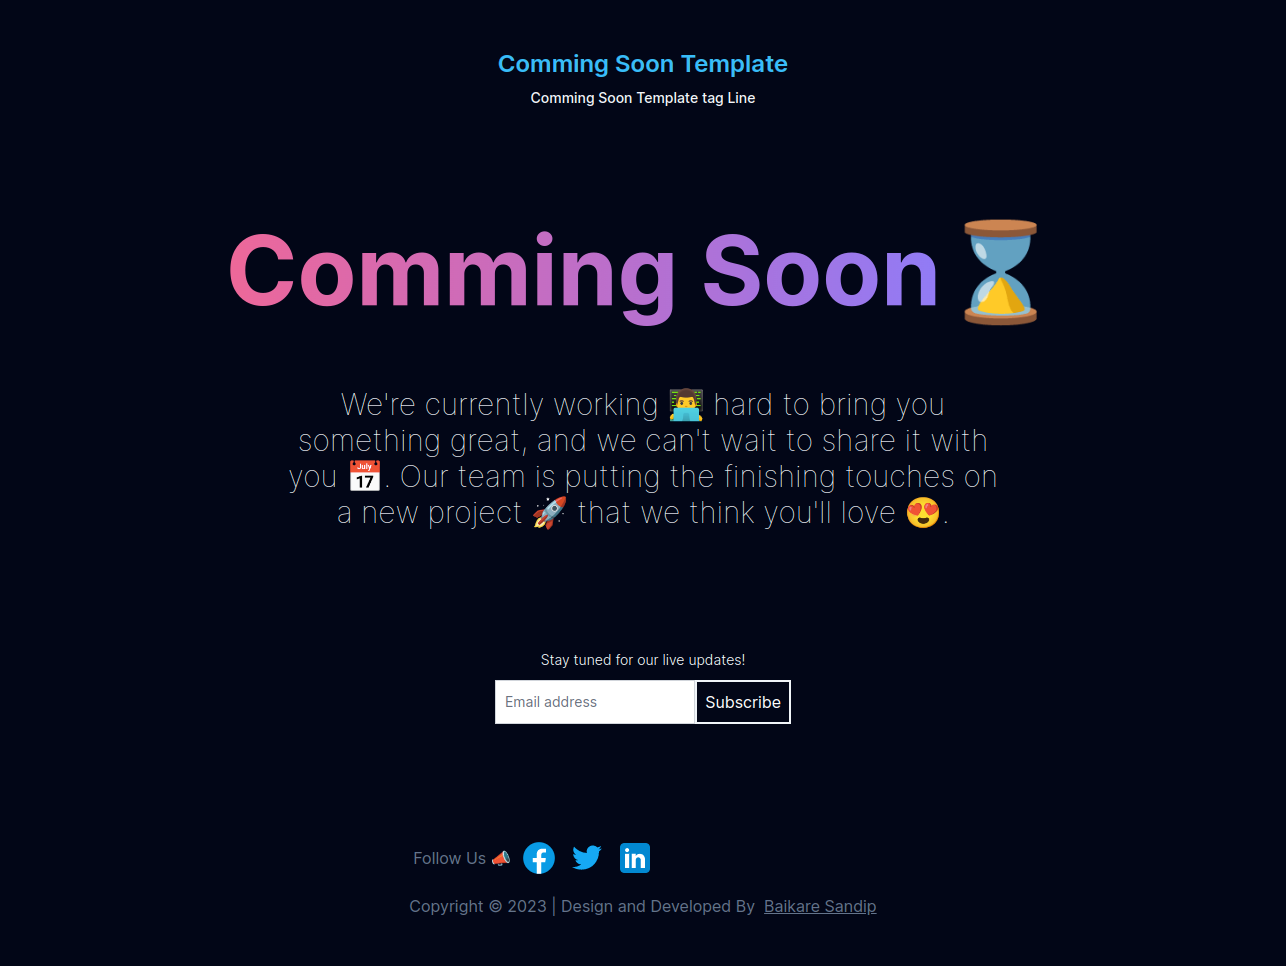
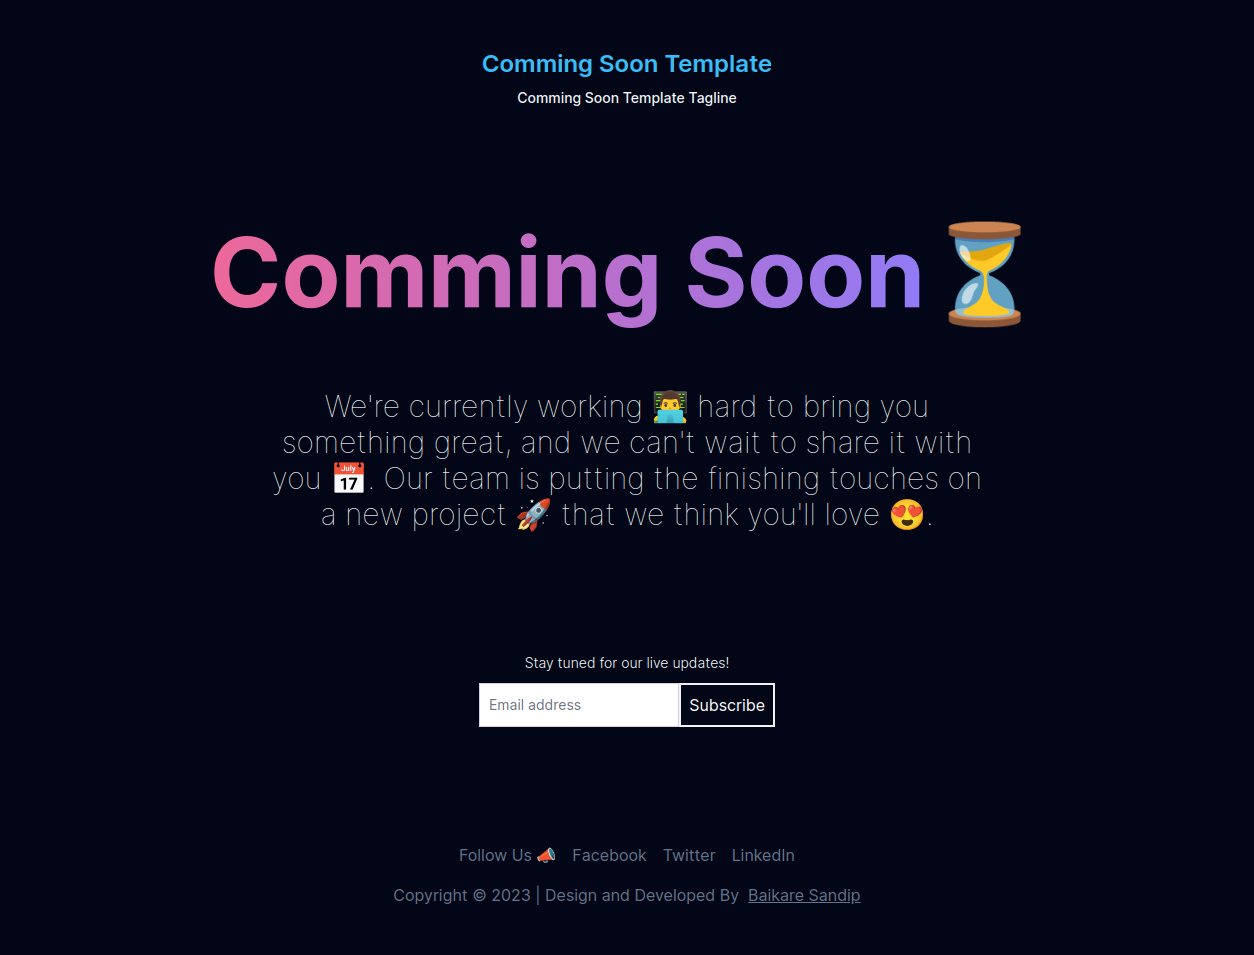
Data file added
Data.ts file added and enhancement in the page and readme

diff --git a/src/app/page.tsx b/src/app/page.tsx
@@ -1,12 +1,24 @@
 import Image from 'next/image'
 import { Inter } from 'next/font/google'
 import { NextSeo } from 'next-seo';
+import data from '../../data/data';
 
 
 const inter = Inter({ subsets: ['latin'] })
 
 export default function Home() {
   const currentYear = new Date().getFullYear()
+  const {
+    sitename,
+    sitetagline,
+    description,
+    copyrightText,
+    newsletterheading,
+    sitelogo,
+    socialIcons,
+    socialIconsHeading,
+    title,
+  } = data
 
   return (
     <>
@@ -20,28 +32,27 @@ export default function Home() {
               rel="noopener noreferrer"
             >
               <div className='flex flex-col text-center'>
-                <h1 className='text-2xl lgtext-4xl text-sky-400/100 font-semibold	'> Comming Soon Template </h1>
-                <p className='text-2 font-medium m-2  text-slate-100'>Comming Soon Template tag Line</p>
+                <h1 className='text-2xl lgtext-4xl text-sky-400/100 font-semibold	'> {sitename} </h1>
+                <p className='text-2 font-medium m-2  text-slate-100'>{sitetagline}</p>
               </div>
             </a>
           </div>
         </div>
 
         <div className="relative flex flex-col  place-items-center ">
-          {/* before:absolute before:h-[300px] before:w-[480px] before:-translate-x-1/2 before:rounded-full before:bg-gradient-radial before:from-white before:to-transparent before:blur-2xl before:content-[''] after:absolute after:-z-20 after:h-[180px] after:w-[240px] after:translate-x-1/3 after:bg-gradient-conic after:from-sky-200 after:via-blue-200 after:blur-2xl after:content-[''] before:dark:bg-gradient-to-br before:dark:from-transparent before:dark:to-blue-700 before:dark:opacity-10 after:dark:from-sky-900 after:dark:via-[#0141ff] after:dark:opacity-40 before:lg:h-[360px] */}
           <h2 className='text-center font-heading m-10 text-6xl sm:text-7xl lg:text-8xl leading-[5rem] sm:leading-[7rem] lg:leading-[7rem] font-bold '>
-            <span className='bg-clip-text text-transparent bg-gradient-to-r from-pink-500 to-violet-500'>Comming Soon</span>
+            <span className='bg-clip-text text-transparent bg-gradient-to-r from-pink-500 to-violet-500'>{title}</span>
             <span className=''>⏳</span>
           </h2>
-          <p className='text-2xl md:text-3xl px-6 max-w-3xl text-center m-5 text-slate-100 font-thin'>
-            We&apos;re currently working 👨💻 hard to bring you something great, and we can&apos;t wait to share it with you 📅.
-            Our team is putting the finishing touches on a new project 🚀 that we think you&apos;ll love 😍.
+          <p className='text-2xl md:text-3xl px-6 max-w-3xl text-center m-5 text-slate-100 font-thin' dangerouslySetInnerHTML={{
+            __html: description
+          }}>
           </p>
         </div>
         <div className='text-center lg:m-7 mt-10 w-80 p-3' >
           <form className="space-y-6" action="#" method="POST">
             <div>
-              <label htmlFor="email" className="block text-slate-100  font-light text-sm leading-6">Stay tuned for our live updates!</label>
+              <label htmlFor="email" className="block text-slate-100  font-light text-sm leading-6">{newsletterheading}</label>
               <div className="mt-2 flex-col flex lg:flex md:flex-row">
                 <input id="email" name="email" type="email" placeholder='Email address' autoComplete="email" required className="block w-full placeholder:text-gray-500 pl-[10px] focus:outline-none border-0 text-gray-900 shadow-sm ring-1 ring-inset ring-gray-300 focus:ring-2 focus:ring-inset focus:ring-indigo-600 sm:text-sm sm:leading-6 mr-0 rounded-none p-2" />
                 <button className='ml-0 bg-slate-950 sm:w-auto border-slate-100	rounded-none mt-2 md:mt-0	p-2 border-2 text-white'>Subscribe</button>
@@ -51,32 +62,27 @@ export default function Home() {
         </div>
         <footer className='text-slate-500 text-center'>
           <div className='my-4 text-center' >
-            <ul className='flex flex-wrap lg:flex items-center '>
-              <li className='px-1'> Follow Us 📣 </li>
-              <li className='px-1'> <a href='#'> 
-              <svg xmlns="http://www.w3.org/2000/svg" xmlnsXlink="http://www.w3.org/1999/xlink" viewBox="0 0 48 48" width="40px" height="40px"><circle style={{"fill": "#039BE5"}} cx="24" cy="24" r="19"/><g><path style={{"fill": "#FFFFFF"}} d="M26.572,29.036h4.917l0.772-4.995h-5.69v-2.73c0-2.075,0.678-3.915,2.619-3.915h3.119v-4.359c-0.548-0.074-1.707-0.236-3.897-0.236c-4.573,0-7.254,2.415-7.254,7.917v3.323h-4.701v4.995h4.701v13.729C22.089,42.905,23.032,43,24,43c0.875,0,1.729-0.08,2.572-0.194V29.036z"/></g></svg>
-              </a>  </li>
-              <li className='px-1'> <a href='#'> 
-                <svg xmlns="http://www.w3.org/2000/svg" xmlnsXlink="http://www.w3.org/1999/xlink" viewBox="0 0 48 48" width="40px" height="40px"><path fill="#03A9F4" d="M42,12.429c-1.323,0.586-2.746,0.977-4.247,1.162c1.526-0.906,2.7-2.351,3.251-4.058c-1.428,0.837-3.01,1.452-4.693,1.776C34.967,9.884,33.05,9,30.926,9c-4.08,0-7.387,3.278-7.387,7.32c0,0.572,0.067,1.129,0.193,1.67c-6.138-0.308-11.582-3.226-15.224-7.654c-0.64,1.082-1,2.349-1,3.686c0,2.541,1.301,4.778,3.285,6.096c-1.211-0.037-2.351-0.374-3.349-0.914c0,0.022,0,0.055,0,0.086c0,3.551,2.547,6.508,5.923,7.181c-0.617,0.169-1.269,0.263-1.941,0.263c-0.477,0-0.942-0.054-1.392-0.135c0.94,2.902,3.667,5.023,6.898,5.086c-2.528,1.96-5.712,3.134-9.174,3.134c-0.598,0-1.183-0.034-1.761-0.104C9.268,36.786,13.152,38,17.321,38c13.585,0,21.017-11.156,21.017-20.834c0-0.317-0.01-0.633-0.025-0.945C39.763,15.197,41.013,13.905,42,12.429"/></svg>
-              </a> </li>
-              <li className='px-1'> 
-                <a href='#'>
-                <svg xmlns="http://www.w3.org/2000/svg" xmlnsXlink="http://www.w3.org/1999/xlink" viewBox="0 0 48 48" width="40px" height="40px"><path fill="#0288D1" d="M42,37c0,2.762-2.238,5-5,5H11c-2.761,0-5-2.238-5-5V11c0-2.762,2.239-5,5-5h26c2.762,0,5,2.238,5,5V37z"/><g><rect x="12" y="19" fill="#FFFFFF" width="5" height="17"/><path fill="#FFFFFF" d="M14.485,17h-0.028C12.965,17,12,15.888,12,14.499C12,13.08,12.995,12,14.514,12c1.521,0,2.458,1.08,2.486,2.499C17,15.887,16.035,17,14.485,17z"/><path fill="#FFFFFF" d="M36,36h-5v-9.099c0-2.198-1.225-3.698-3.192-3.698c-1.501,0-2.313,1.012-2.707,1.99C24.957,25.543,25,26.511,25,27v9h-5V19h5v2.616C25.721,20.5,26.85,19,29.738,19c3.578,0,6.261,2.25,6.261,7.274L36,36L36,36z"/></g></svg>
-                </a> 
-                </li>              
+            <ul className='flex flex-wrap lg:flex justify-center '>
+              <li className='px-2'> {socialIconsHeading} </li>
+              {socialIcons.map((social, index) =>
+              (
+                <li key={index} className='px-2 capitalize'>
+                  <a target='_blank' href={social.link}> {social.icon}  </a>
+                </li>
+              )
+              )}
             </ul>
           </div>
           <div className=''>
-            <p className=''>
-              Copyright &copy; {currentYear} | Design and Developed By &nbsp;
-              <a target='_blank' className='no-underline md:underline' href='https://github.com/baikaresandip'>
-                Baikare Sandip
-              </a>
+            <p className='' dangerouslySetInnerHTML={{
+              __html: copyrightText
+            }}>
             </p>
+
           </div>
         </footer>
 
       </main>
-    </> 
+    </>
   )
 }

diff --git a/data/data.ts b/data/data.ts
@@ -1,0 +1,26 @@
+const data = {
+    sitename: "Comming Soon Template",
+    sitetagline: "Comming Soon Template Tagline",
+    sitelogo: "",
+    title: "Comming Soon",
+    description: "We&apos;re currently working 👨💻 hard to bring you something great, and we can&apos;t wait to share it with you 📅. Our team is putting the finishing touches on a new project 🚀 that we think you&apos;ll love 😍.",
+    newsletterheading: "Stay tuned for our live updates!",
+    copyrightText: 'Copyright © 2023 | Design and Developed By &nbsp;<a target="_blank" class="no-underline md:underline" href="https://github.com/baikaresandip">Baikare Sandip</a>',
+    socialIconsHeading: "Follow Us 📣",
+    socialIcons: [
+        {
+            icon: "facebook",
+            link: "#",
+        },
+        {
+            icon: "twitter",
+            link: "#",
+        },
+        {
+            icon: "linkedIn",
+            link: "#",
+        },
+    ],
+}
+
+export default data;

diff --git a/README.md b/README.md
@@ -26,6 +26,12 @@ You can start editing the page by modifying `app/page.tsx`. The page auto-update
 
 This project uses [`next/font`](https://nextjs.org/docs/basic-features/font-optimization) to automatically optimize and load Inter, a custom Google Font.
 
+## Future Enhanment
+
+- [x] Comming Soon Template
+- [ ] Email Sent functionality and configurations
+- [ ] Both light and dark colors
+
 ## Learn More
 
 To learn more about Next.js and Tailwind CSS, take a look at the following resources:
